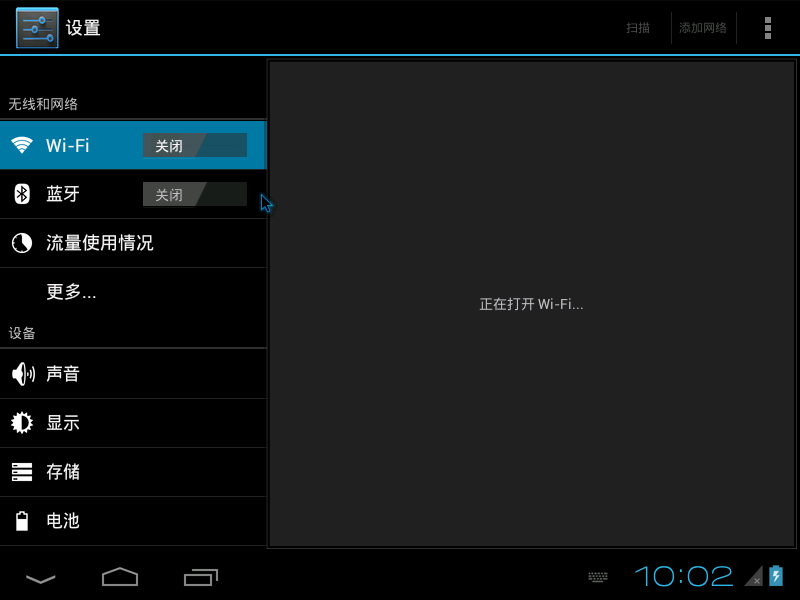
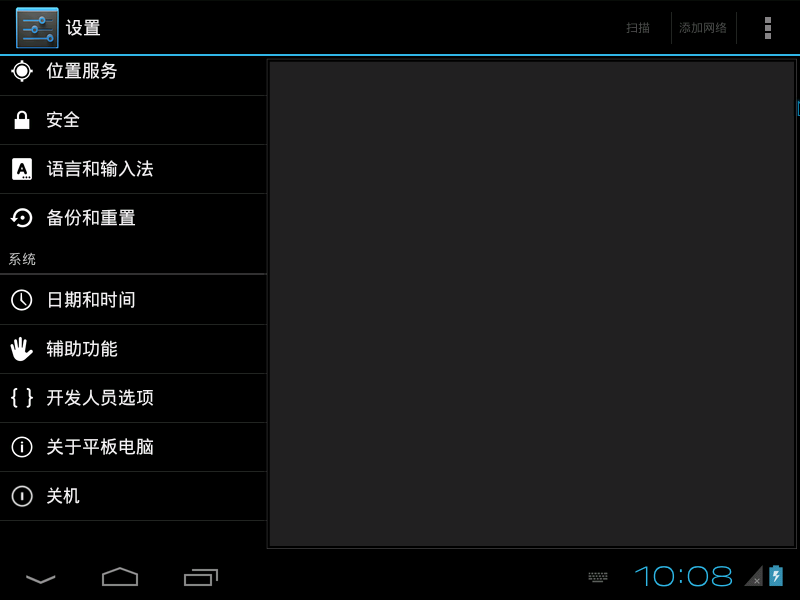
docs: add real-device screenshots and update README
- README now uses final Theme.Holo screenshots
- Cleaned up intermediate junk screenshots; keep mine.png/real.png
- Updated theme description to match the real AOSP Settings Manifest

diff --git a/README.md b/README.md
@@ -15,8 +15,9 @@
 ## 特性
 
 - ✅ **源码级还原**：全部图标（`ic_settings_*`）、顶栏分类与条目标题、字符串均取自 AOSP 4.0.4 源码，**不是手绘近似**。
-- ✅ **原生渲染**：使用框架自带的 `Theme.Holo.Light.DarkActionBar` 与 `Preference`/`PreferenceFragment` 体系，
-  因此能在**所有仍内置 Holo 主题的安卓版本（API 14+，即市面上几乎所有在用的设备）**上原样呈现 4.0 视觉与交互。
+- ✅ **原生渲染**：使用 AOSP Settings 同款的 `Theme.Holo` 与 `Preference`/`PreferenceFragment` 体系，
+  在**所有仍内置 Holo 主题的安卓版本（API 14+，即市面上几乎所有在用的设备）**上原样呈现 4.0 视觉与交互。
+- ✅ **真机验证**：已在原生 Android 4.0.4 x86 平板模拟器上安装运行，深色仪表盘与深色详情页均与系统自带设置一致。
 - ✅ **完整结构**：复刻了 ICS 设置的 4 大分类（无线和网络 / 设备 / 个人 / 系统）与 19 个二级面板
   （Wi-Fi、蓝牙、流量、声音、显示、存储、电池、应用、账户、定位、安全、语言输入、备份重置、基座、日期时间、无障碍、开发者选项、关于手机等）。
 - ✅ **可安装 APK**：已用自签名密钥签名（v1/v2/v3），可直接 `adb install` 安装到手机。
@@ -28,10 +29,21 @@
 | 顶层分类与条目结构 | `res/xml/settings_headers.xml`（AOSP 4.0.4 同名文件，顺序/图标/标题一致） |
 | 图标 | `res/drawable-{mdpi,hdpi,xhdpi}/ic_settings_*.png`（AOSP 官方 PNG，三档密度） |
 | 字符串 | `res/values/strings.xml`、`res/values-zh-rCN/strings.xml`（标题取自源码，示例值本地化） |
-| 主题 | `Theme.Holo.Light.DarkActionBar`（系统框架主题，跨版本一致） |
+| 主题 | `Theme.Holo`（与 AOSP Settings 官方 Manifest 一致，深色仪表盘/详情页） |
 | 框架 | `PreferenceActivity` + `PreferenceFragment` + `preference-headers`（ICS 设置架构） |
 
 源码归档：`https://android.googlesource.com/platform/packages/apps/Settings/+archive/android-4.0.4_r2.1.tar.gz`
+
+## 真机效果对比
+
+左：本项目的 ICS Settings（在 Android 4.0.4 x86 平板模拟器运行）  
+右：同设备的系统原生「设置」应用
+
+| 本项目 `ICS_Settings_4.0.apk` | 系统原生 Settings |
+| --- | --- |
+| ![mine](screenshots/mine.png) | ![real](screenshots/real.png) |
+
+对比可见：深色双栏仪表盘、分类标题、图标样式、Holo 开关/列表均与源码一致。
 
 ## 项目结构
 
